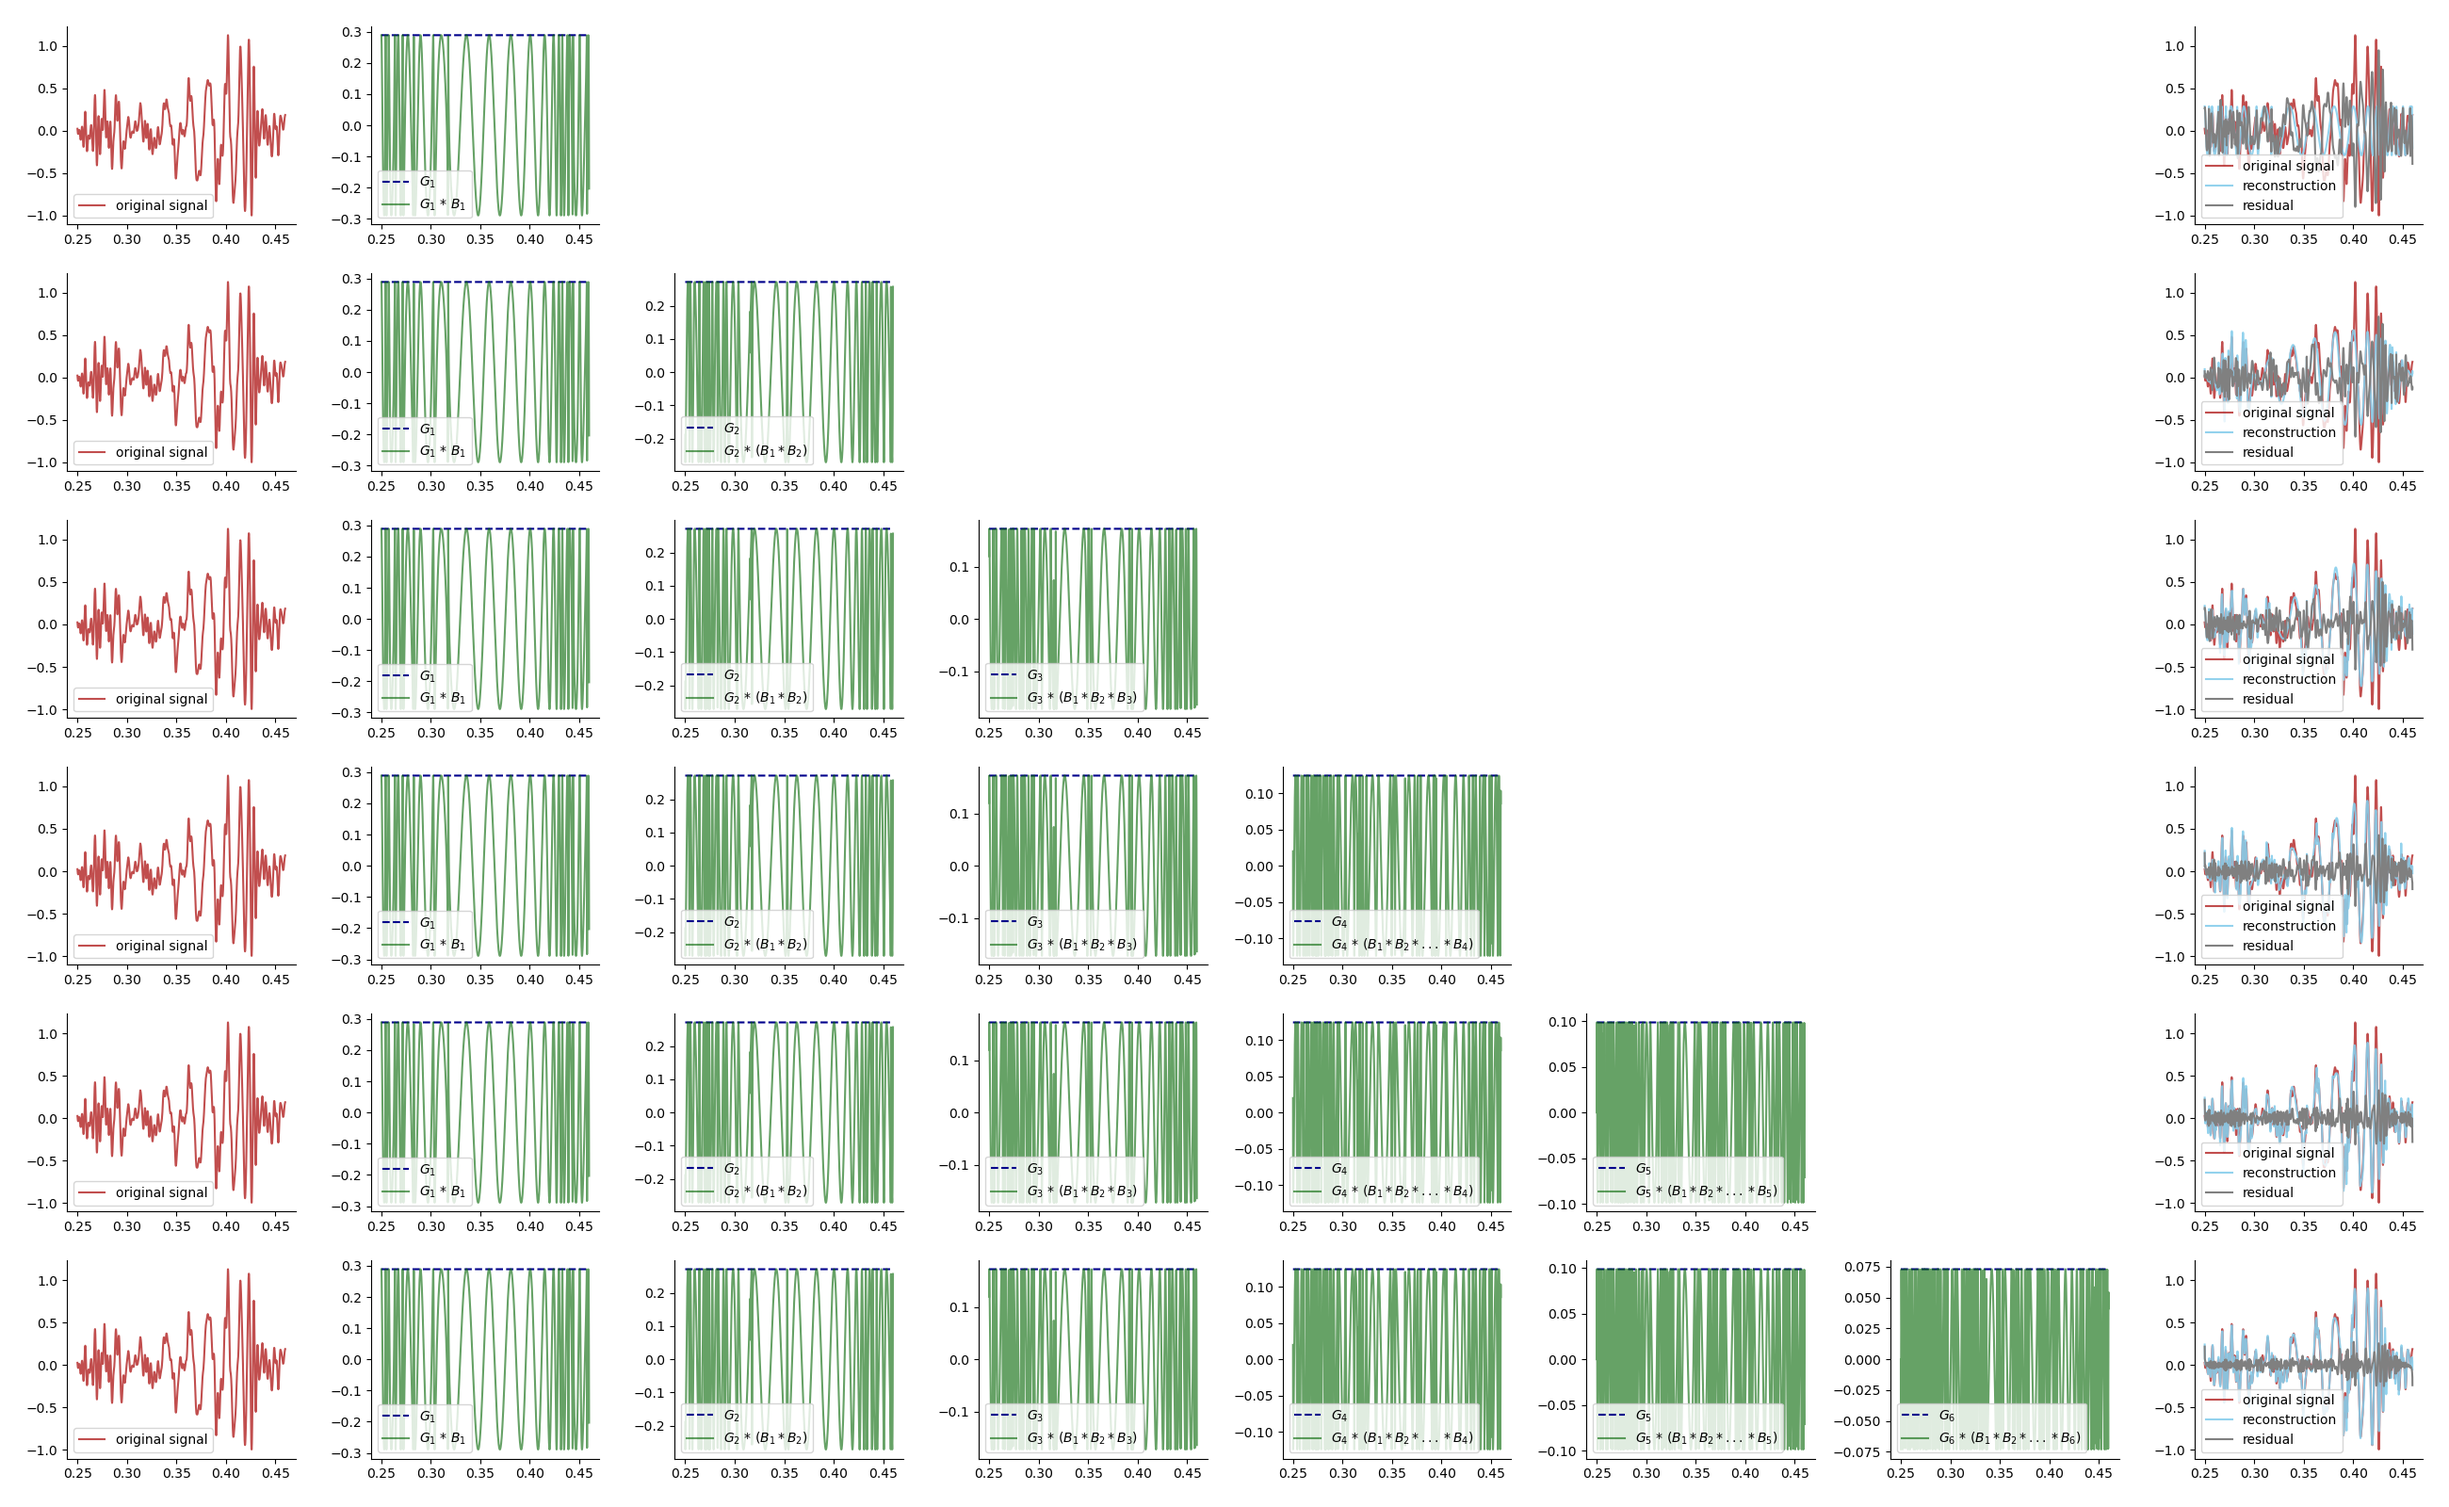
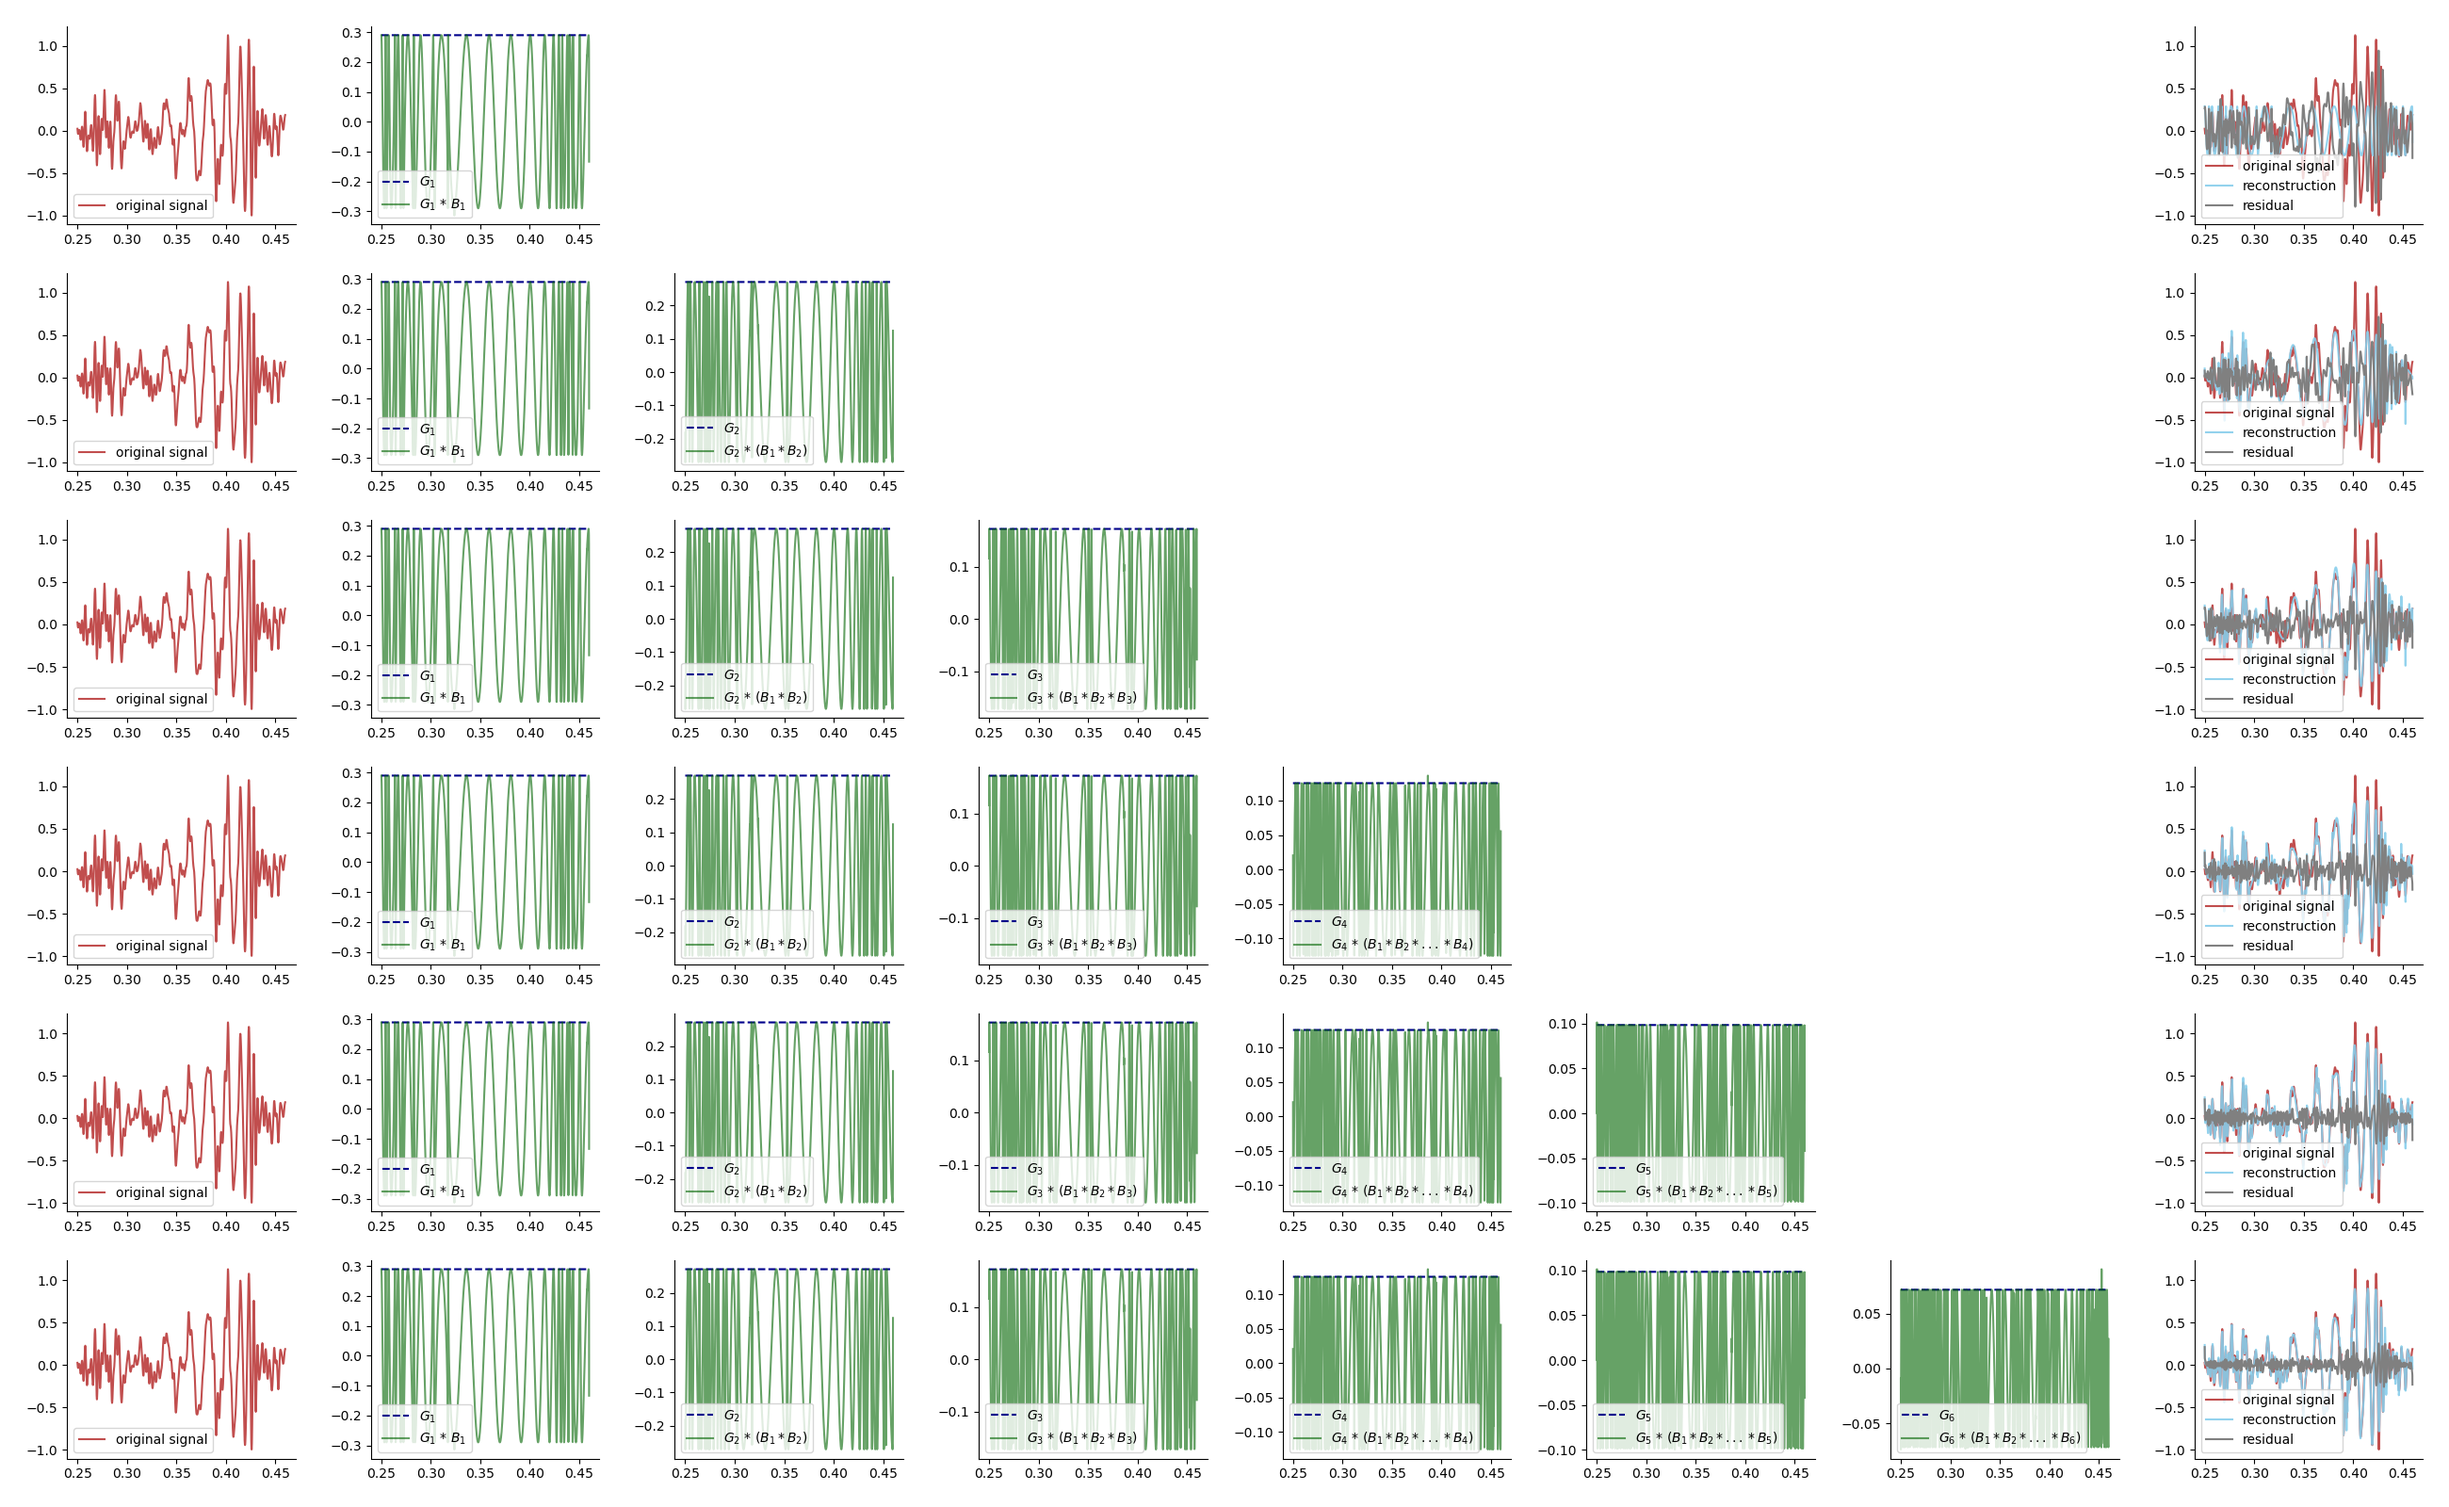
commenting

diff --git a/src/analytical/analytical_decomposition.py b/src/analytical/analytical_decomposition.py
@@ -183,11 +183,11 @@ if __name__ == '__main__':
     signal_arr = np.array(signal_df[1])
 
     # Parameters for Blaschke decomposition.
-    num_blaschke_iters = 7
-    oversampling_rate = 16
-    lowpass_order = 1
-    blaschke_order = num_blaschke_iters - 1
-    carrier_freq = 10
+    num_blaschke_iters = 7                   # Using 7 for best visualization.
+    oversampling_rate = 2                    # At least 2, otherwise will have undersampling issue.
+    lowpass_order = 1                        # Has to be 1 to parameterize `s_i`. Higher gives better approximation.
+    blaschke_order = num_blaschke_iters - 1  # By definition. Do not change.
+    carrier_freq = 0                         # Seems unnecessary.
 
     # Blaschke decomposition.
     low_freq_component, _, blaschke_product = blaschke_decomposition(
